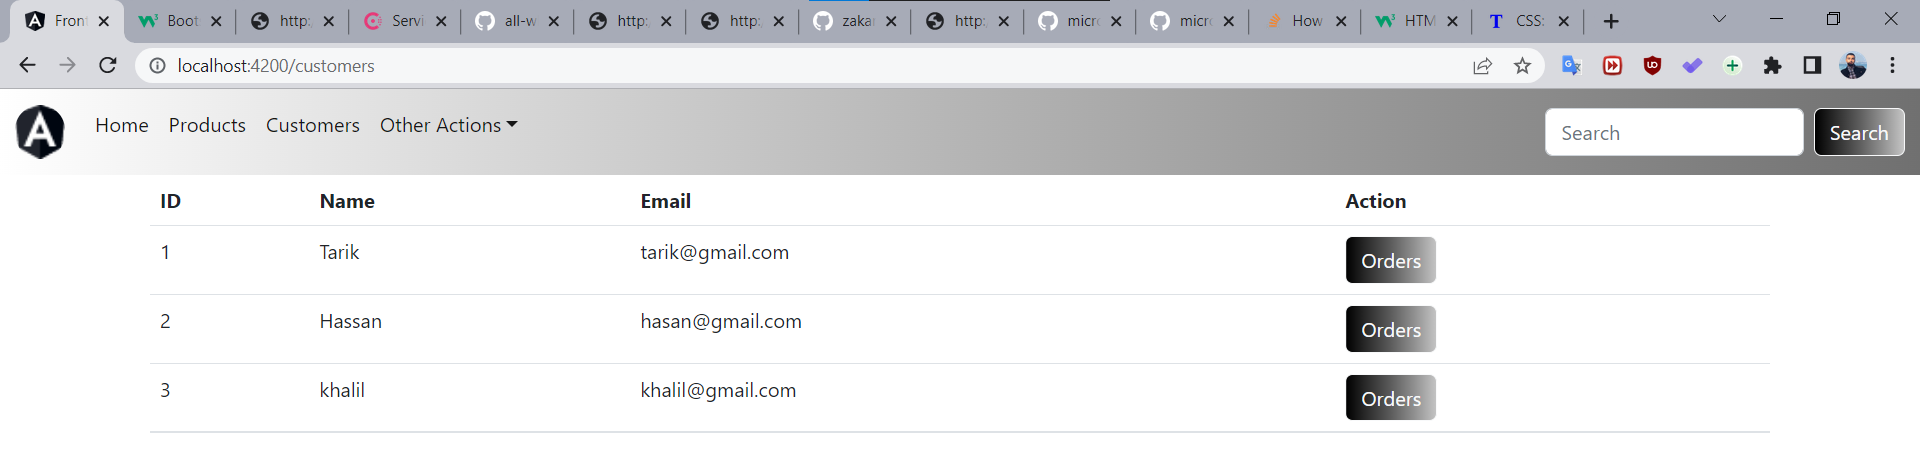
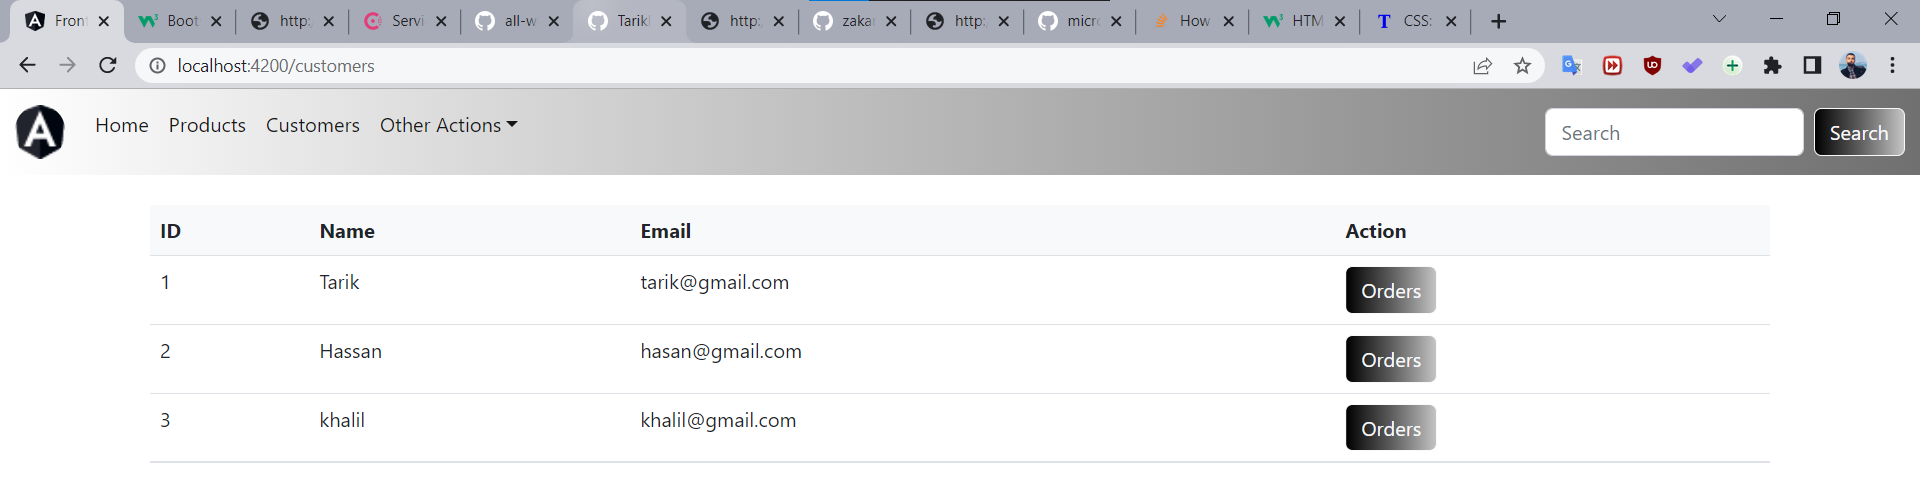
update

diff --git a/frontend/src/app/customers/customers.component.html b/frontend/src/app/customers/customers.component.html
@@ -1,7 +1,8 @@
 <div class="container">
+  <br>
   <table class="table" *ngIf="customers">
     <thead>
-    <tr>
+    <tr class="bg-light">
       <th>ID</th> <th>Name</th> <th>Email</th> <th>Action</th>
     </tr>
     </thead>

diff --git a/frontend/src/app/orders/orders.component.html b/frontend/src/app/orders/orders.component.html
@@ -3,7 +3,7 @@
   <br>
   <table class="table" *ngIf="orders">
     <thead>
-    <tr>
+    <tr class="bg-light">
       <th>ID</th> <th>Date</th> <th>Status</th> <th>CustomerID</th> <th>Actions</th>
     </tr>
     </thead>
